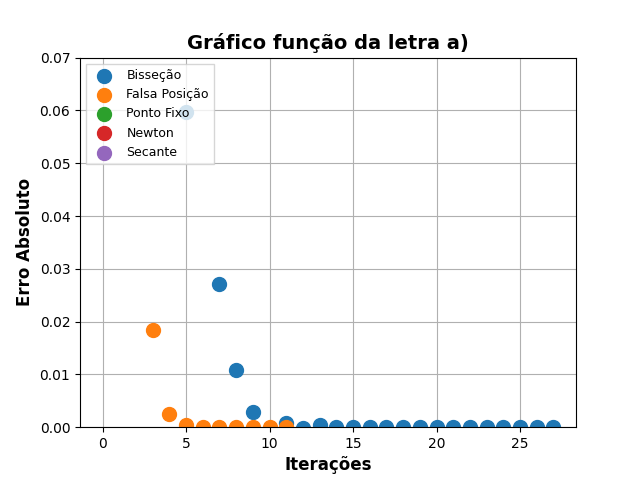
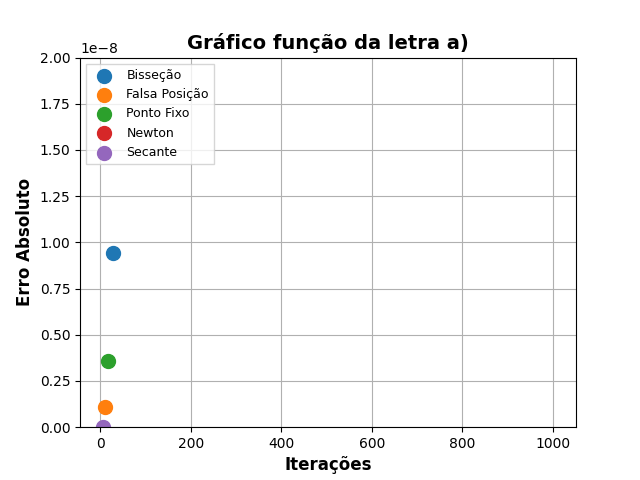
mais correções

diff --git a/trab3.py b/trab3.py
@@ -120,14 +120,14 @@ for [funcao, derivada] in zip(funcoes, derivadas):
     plt.title(titulos[contador], fontdict=fonte_titulo)
     plt.xlabel("Iterações", fontdict=fonte_labels)
     plt.ylabel("Erro Absoluto", fontdict=fonte_labels)
-    plt.ylim(0,0.07)
+    plt.ylim(0,0.00000002)
     plt.grid(zorder = 1)
     print(imagem_raizBi,iteracoesFalsaPosicao)
-    plt.scatter(iteracoesBissecao, errosBissecao, marker='o', zorder = 2, label="Bisseção", s=100)
-    plt.scatter(iteracoesFalsaPosicao, errosFalsaPosicao, marker='o', zorder = 2, label="Falsa Posição", s=100)
-    plt.scatter(imagem_raizPF, raizPF, marker='o', zorder = 2, label="Ponto Fixo", s=100)
-    plt.scatter(imagem_raizNew, raizNew, marker='o', zorder = 2, label="Newton", s=100)
-    plt.scatter(imagem_raizSec, raizSec, marker='o', zorder = 2, label="Secante", s=100)
+    plt.scatter(n_iteracoesBi, imagem_raizBi, marker='o', zorder = 2, label="Bisseção", s=100)
+    plt.scatter(n_iteracoesFP, imagem_raizFP, marker='o', zorder = 2, label="Falsa Posição", s=100)
+    plt.scatter(n_iteracoesPF, imagem_raizPF, marker='o', zorder = 2, label="Ponto Fixo", s=100)
+    plt.scatter(n_iteracoesNew, imagem_raizNew, marker='o', zorder = 2, label="Newton", s=100)
+    plt.scatter(n_iteracoesSec, imagem_raizSec, marker='o', zorder = 2, label="Secante", s=100)
     plt.legend(loc = "upper left", fancybox = False, prop = fonte_legenda)
     plt.savefig("./Graficos/Grafico"+titulos[contador]+".png")
     
